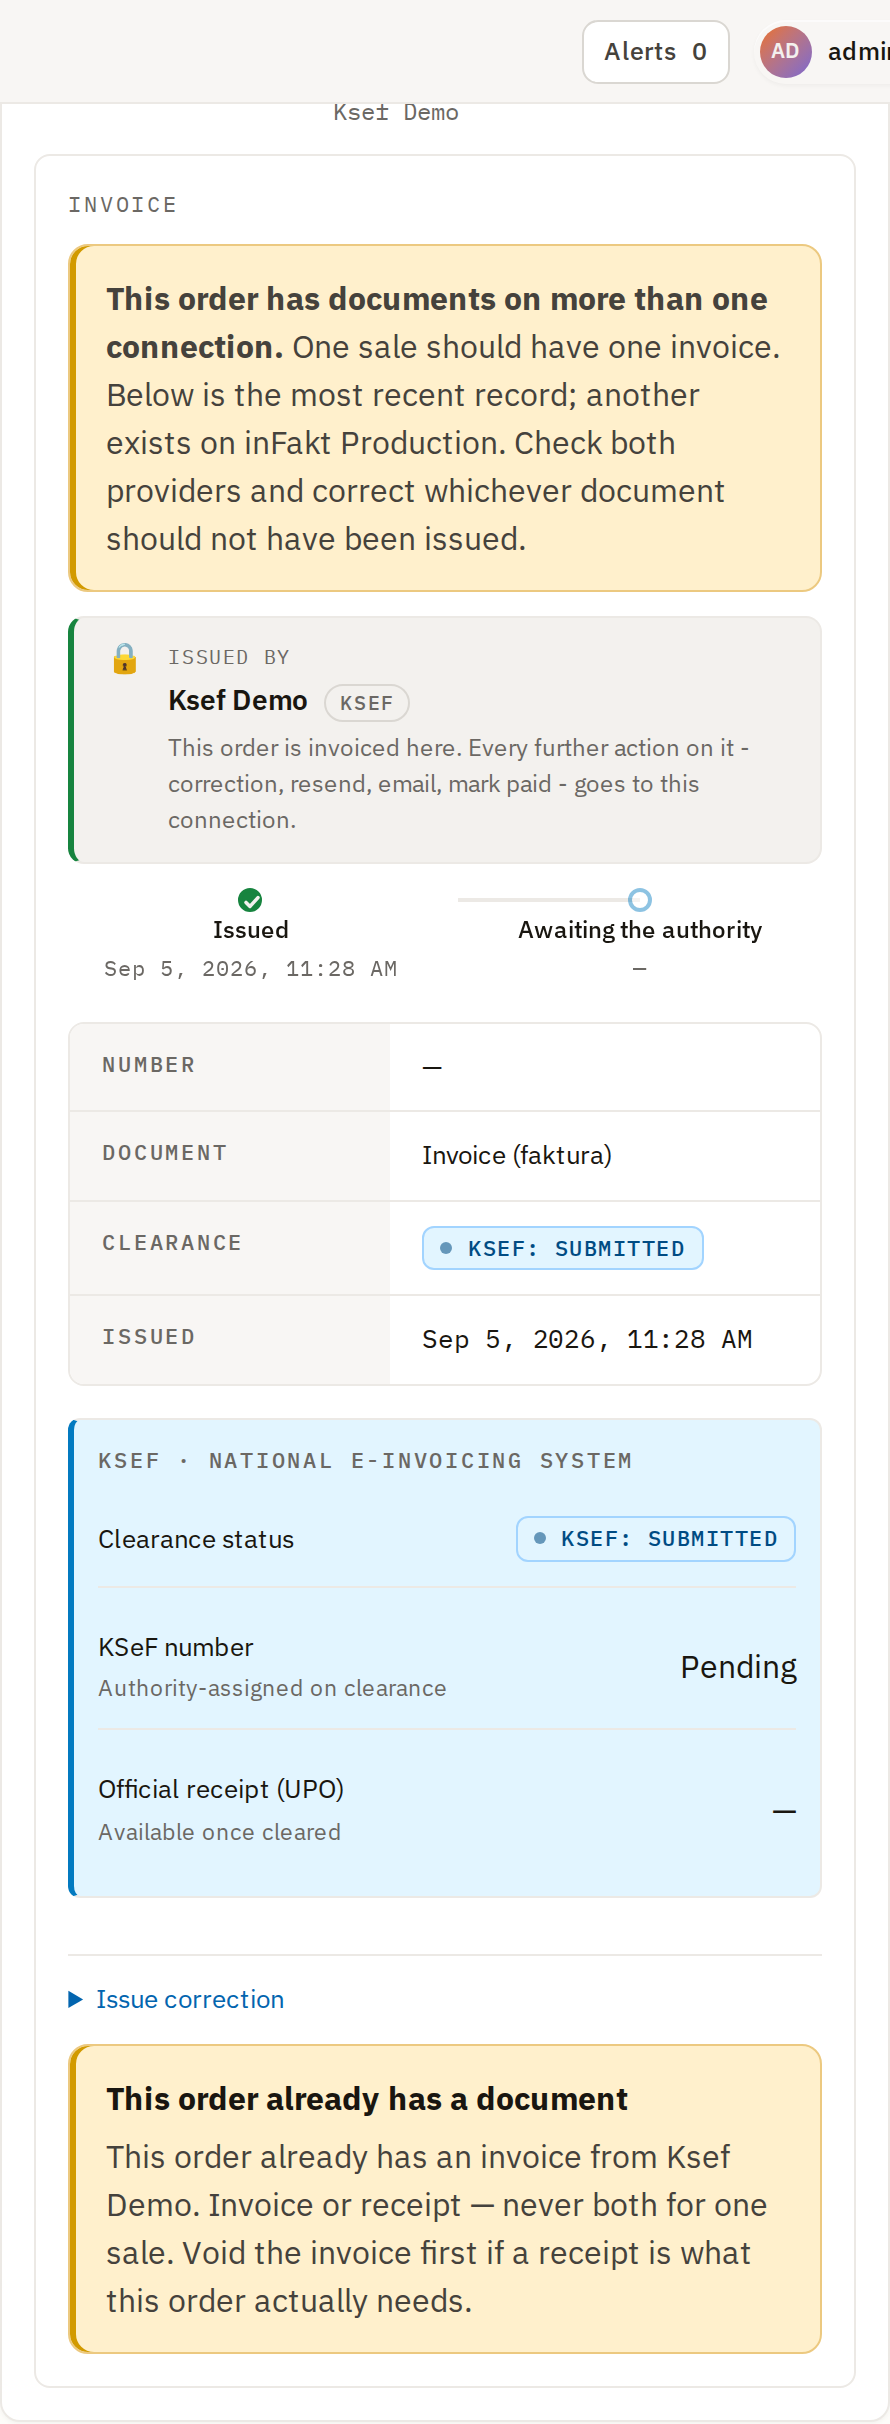
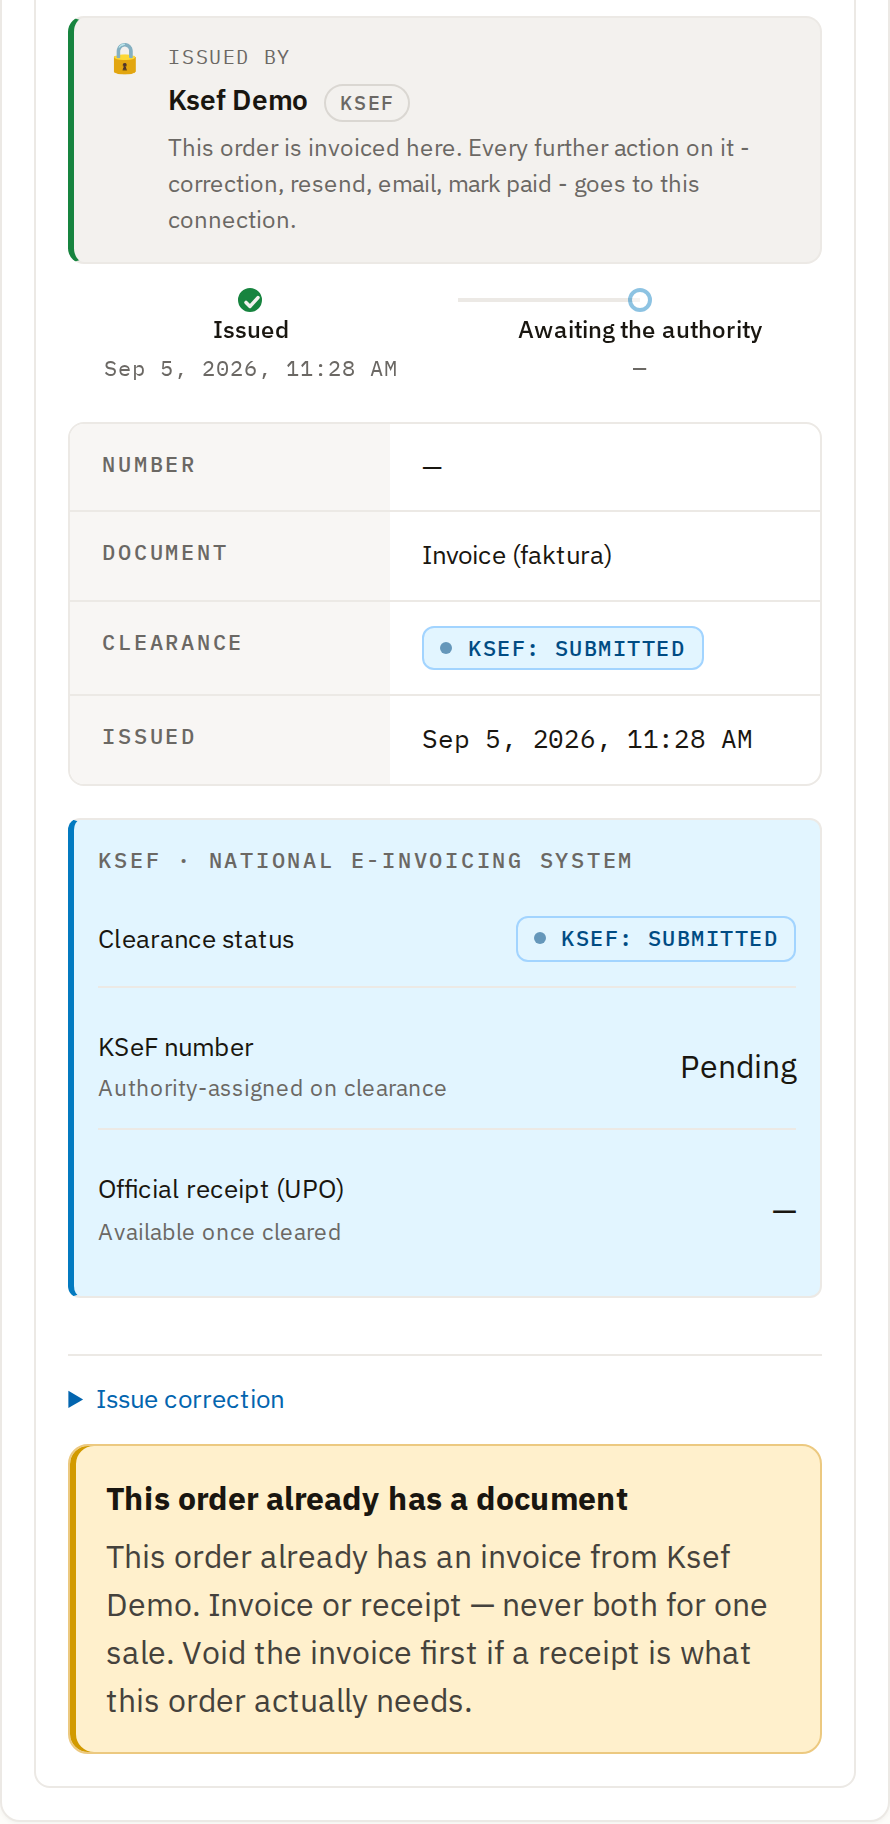
docs(user-guide): crop navbar from the two invoice captures, fix three alt texts
Four defects found re-checking the review round against `main`.

Screenshots
- `04b-order-panel-cleared.png` and `04b-order-panel-awaiting-clearance.png`
  carried the sticky navbar — the Alerts pill, the avatar and the `admin`
  username — contradicting the PR body's "cropped to content (no navbar or
  sidebar)". Both are re-cropped from just above the "Issued by" card, which
  also drops a stray truncated header line the navbar was overlapping.
- The awaiting-clearance capture additionally showed a duplicate-document
  warning ("This order has documents on more than one connection"), an error
  state the page never explains and which reads as contradicting its own
  "one originating document per order" rule. It is above the new crop line, so
  the same single contiguous crop removes it.

Alt text
- The registering capture promised an in-progress note the image does not
  contain: that order already carries a receipt, so the blocking notice takes
  that space. Prose and alt text now describe what is actually rendered.
- Both invoice alt texts named a panel heading that is not in frame; they now
  describe the invoice section the captures show.

Worked example
- The Poland table gave amounts (450 / 999.99 / 1000 PLN) that appear nowhere
  in its screenshot, which shows threshold NAMES — and the page itself says a
  rule compares against "a named threshold, never a free number". The table now
  carries both, notes the third rule's end date, and states that amounts are
[…]

diff --git a/docs/user-guide/04b-sales-documents.md b/docs/user-guide/04b-sales-documents.md
@@ -124,9 +124,20 @@ Read together, these three rules say:
 
 | Buyer has tax ID | Order total | → | Document | Connection |
 |---|---|---|---|---|
-| Yes | < 450 PLN | → | Receipt | eparagony |
-| Yes | 450 – 999.99 PLN | → | Invoice | KSeF (direct, test) |
-| Yes | ≥ 1000 PLN | → | Invoice | inFakt |
+| Yes | below `pl-simplified-invoice-2026` (450 PLN) | → | Receipt | eparagony |
+| Yes | at or above `pl-simplified-invoice-2026`, below `pl-full-invoice-1000-2026` (450–999.99 PLN) | → | Invoice | KSeF (direct, test) |
+| Yes | at or above `pl-full-invoice-1000-2026` (1000 PLN) | → | Invoice | inFakt |
+
+The screenshot shows the threshold **names**, not the amounts, because a name is
+what a rule stores — on this install `pl-simplified-invoice-2026` is 450 PLN and
+`pl-full-invoice-1000-2026` is 1000 PLN. The third rule also carries an end date
+(`ends 2026-12-31`); the other two run indefinitely.
+
+A threshold is defined in one currency, and amounts are **never converted** when
+routing decides. An order priced in a different currency therefore matches no
+amount-based rule and is reported as a currency mismatch — see
+[How routing decides](../sales-documents-how-routing-decides.md) for that state
+and its remedy.
 
 An order where the buyer asserted no tax ID matches none of them and falls to
 Tier 2.
@@ -244,10 +255,13 @@ what the order actually needed.
 
 ### In progress
 
-Once you (or auto-issue) trigger a registration, the panel shows a live
-progress state and keeps polling:
+Once you (or auto-issue) trigger a registration, the panel's heading switches to
+**Registering** and the page keeps polling for the result. Registering continues
+even if you navigate away, and the panel says so — except where the order already
+carries a document, as in the capture below, and the blocking notice takes that
+space instead:
 
-![Sales document panel showing "Fiscal receipt · Registering" with a note that registering continues if you leave the page and the result will be there when you come back](./images/04b-order-panel-registering.png)
+![Sales document panel headed "Fiscal receipt · Registering". Because this order already carries a receipt, the body renders the "This order already has a document" notice](./images/04b-order-panel-registering.png)
 
 ### Issued — the lifecycle stepper
 
@@ -257,11 +271,11 @@ captured live:
 
 **Invoice submitted, awaiting the tax authority's clearance:**
 
-![Sales document panel: Invoice · Awaiting clearance — a two-step stepper with Issued done and "Awaiting the authority" in progress, clearance reading KSEF: SUBMITTED, and the Issue correction action](./images/04b-order-panel-awaiting-clearance.png)
+![The invoice section of the Sales document panel: an "Issued by" card, a two-step stepper with Issued done and "Awaiting the authority" in progress, clearance reading KSEF: SUBMITTED, and the Issue correction action](./images/04b-order-panel-awaiting-clearance.png)
 
 **The same invoice, after KSeF accepted it:**
 
-![Sales document panel: Invoice · Cleared — both stepper steps done, clearance reading KSEF: ACCEPTED, and the UPO and FA(3) document rows now available](./images/04b-order-panel-cleared.png)
+![The same invoice section after clearance: both stepper steps done, the second labelled Cleared, clearance reading KSEF: ACCEPTED, and the UPO and FA(3) document rows now available](./images/04b-order-panel-cleared.png)
 
 Note the two words for one thing: the panel's own heading and stepper say
 **Cleared**, while the clearance field reports the authority's own answer,
